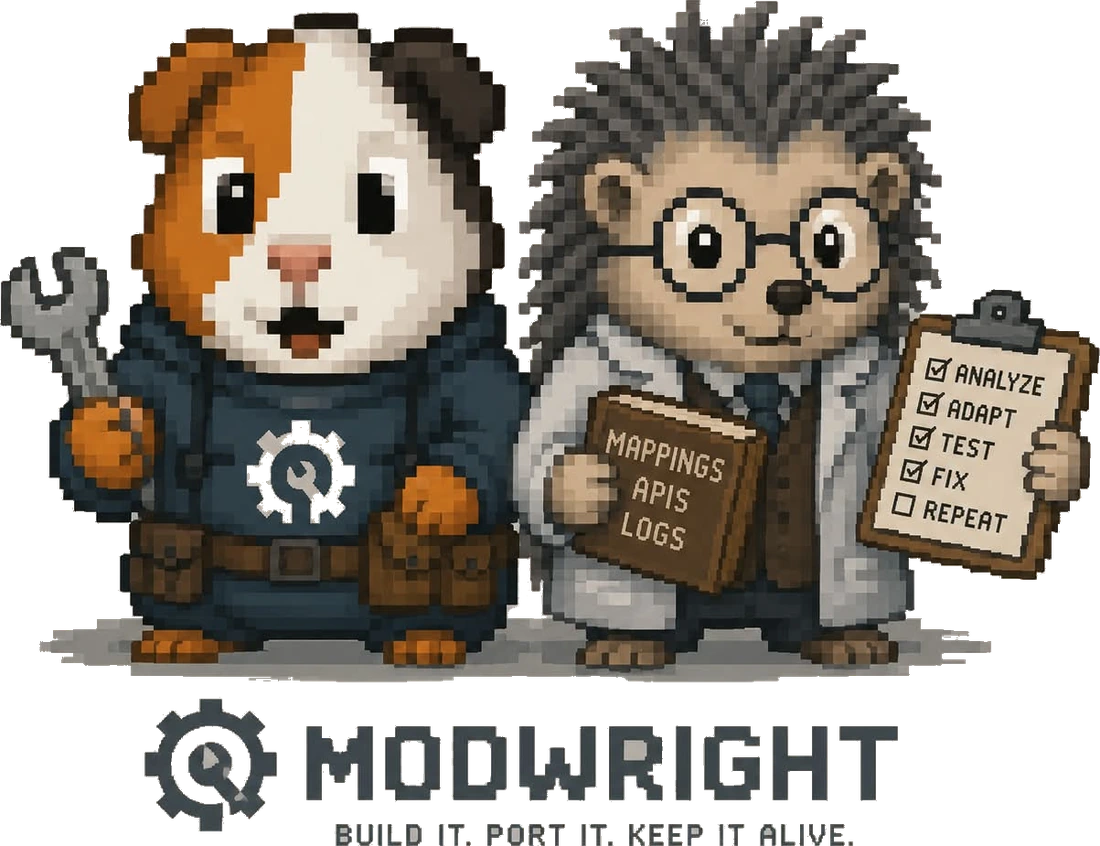
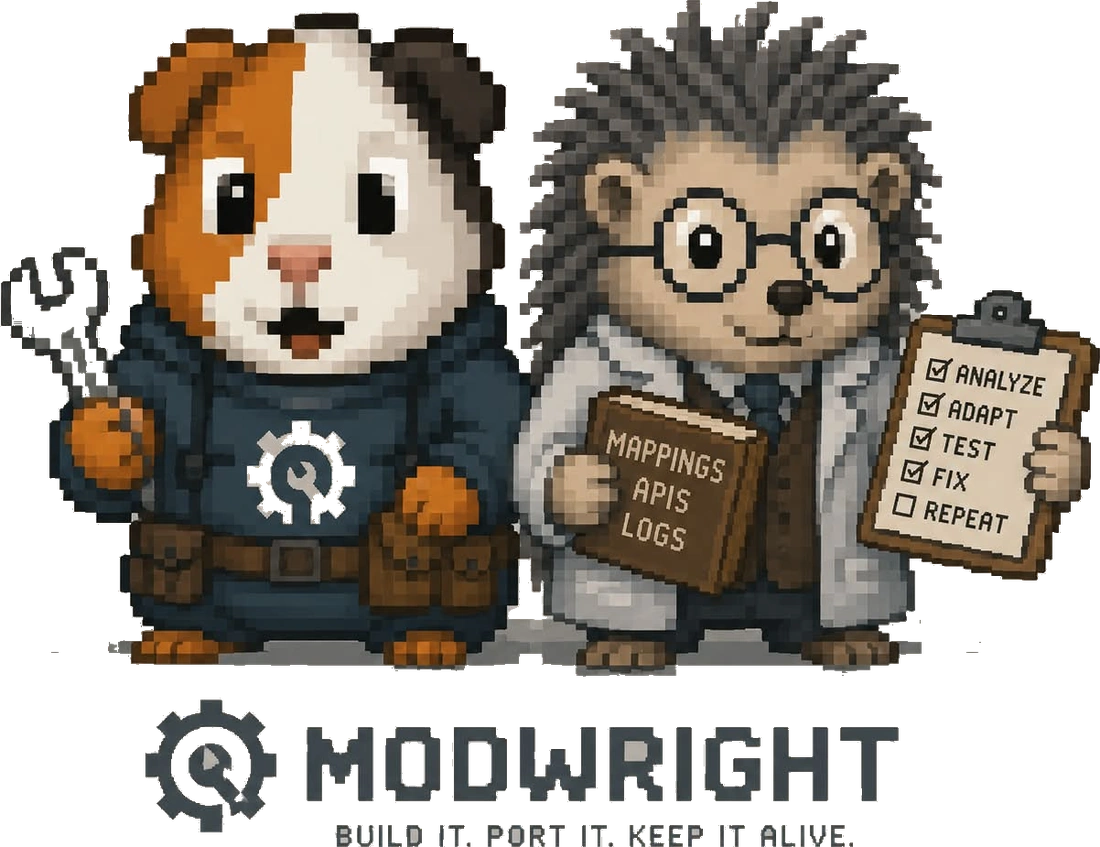
fix(web): la sombra del suelo sale del recorte de la ilustracion de marca
josda: 'en la tercera se ve mal recortado'. Tenia razon y no era el rotulo: era
LA SOMBRA. Sobre el fondo claro del original es una sombra; recortada y puesta
sobre el fondo casi negro de la web se convierte en una losa gris cruzando el
dibujo justo encima del rotulo.

No se podia quitar subiendo la tolerancia: la sombra cae a distancia 18-52 del
fondo y a esa altura la inundacion se cuela por la bata clara del erizo y se
come al personaje. Se caza por lo que la sombra ES: el mismo fondo multiplicado
por un factor menor que 1, o sea los tres canales bajando casi en la misma
proporcion. La bata sube en vez de bajar, el rotulo baja demasiado y el overol
baja con dispersion 0,29: ninguno cuela.

Y el borde pasa a duro. El suavizado original se calculo contra un fondo CLARO,
asi que sobre el oscuro los pixeles medio transparentes aportan menos luz de la
que aportaban y las letras finas del lema salian comidas.

diff --git a/index.html b/index.html
@@ -2162,7 +2162,7 @@
     </div>
 
     <figure class="brandart">
-      <img src="brandart.webp" width="1100" height="846" alt="Modwright brand illustration in pixel art: a guinea pig in work overalls holding a wrench, and a hedgehog in a lab coat holding a book labelled mappings, APIs and logs, next to a checklist reading analyze, adapt, test, fix, repeat. Below them, the Modwright wordmark and the line: build it, port it, keep it alive." loading="lazy" decoding="async">
+      <img src="brandart.webp" width="1100" height="847" alt="Modwright brand illustration in pixel art: a guinea pig in work overalls holding a wrench, and a hedgehog in a lab coat holding a book labelled mappings, APIs and logs, next to a checklist reading analyze, adapt, test, fix, repeat. Below them, the Modwright wordmark and the line: build it, port it, keep it alive." loading="lazy" decoding="async">
     </figure>
 
     <div class="credit">
